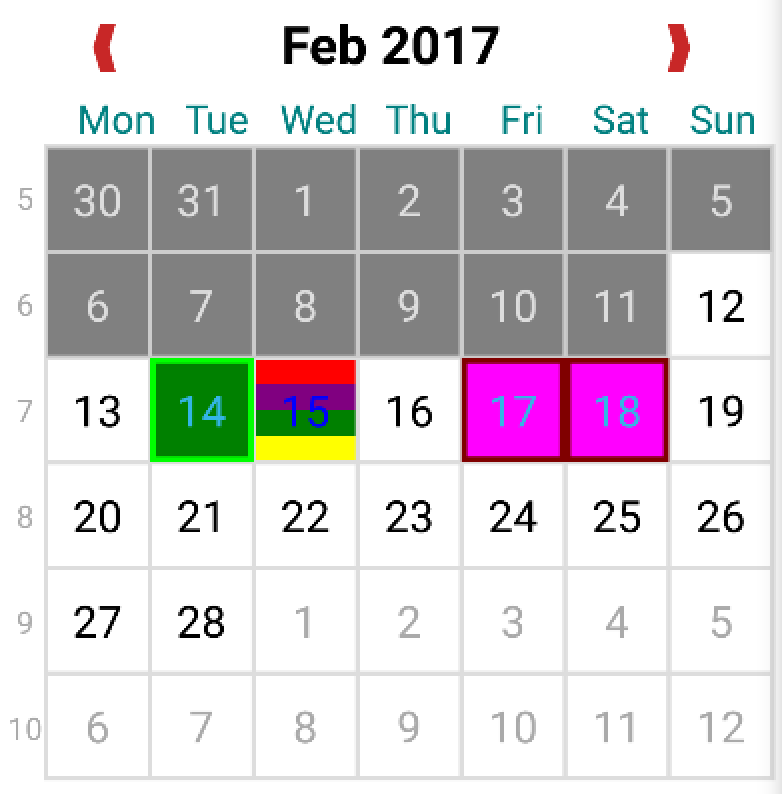
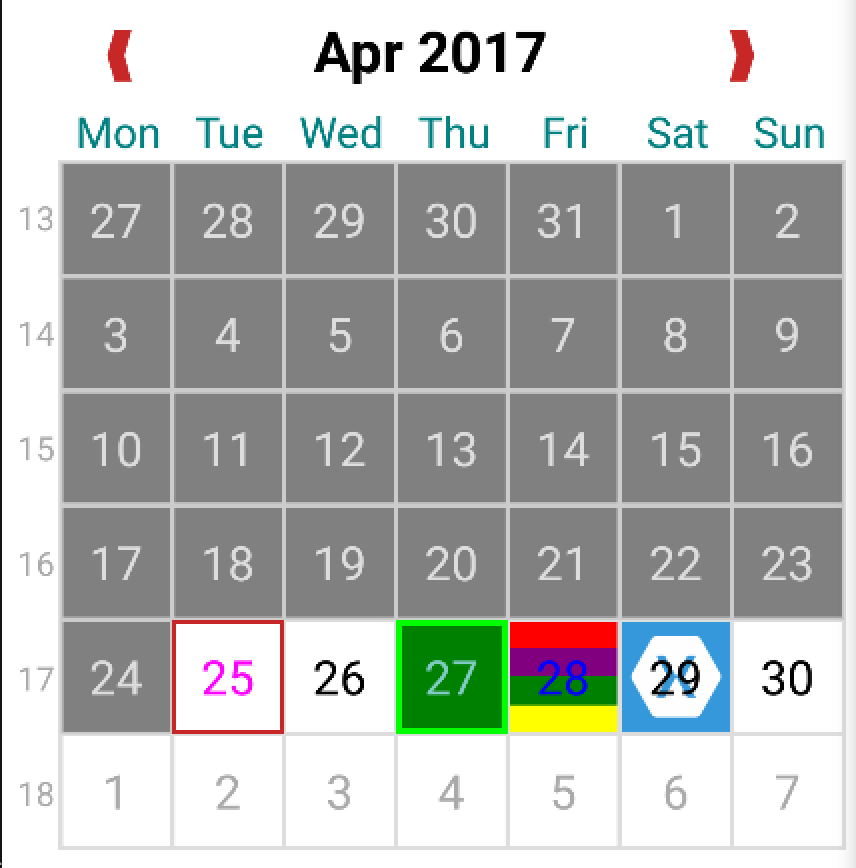
Fix Image Background for iOS Update pictures

diff --git a/XamForms.Controls.Calendar.iOS/CalendarButtonRenderer.cs b/XamForms.Controls.Calendar.iOS/CalendarButtonRenderer.cs
@@ -44,6 +44,8 @@ namespace XamForms.Controls.iOS
 		public override void Draw(CGRect rect)
 		{
 			base.Draw(rect);
+			Control.SetBackgroundImage(null, UIControlState.Normal);
+			Control.SetBackgroundImage(null, UIControlState.Disabled);
 			DrawBackgroundImage();
 			DrawBackgroundPattern();
 		}
@@ -51,8 +53,6 @@ namespace XamForms.Controls.iOS
 		protected async void DrawBackgroundImage()
 		{
 			var element = Element as CalendarButton;
-			Control.SetBackgroundImage(null, UIControlState.Normal);
-			Control.SetBackgroundImage(null, UIControlState.Disabled);
 			if (element == null || element.BackgroundImage == null) return;
 			var image = await GetImage(element.BackgroundImage);
 			Control.SetBackgroundImage(image, UIControlState.Normal);
@@ -62,8 +62,6 @@ namespace XamForms.Controls.iOS
 		protected void DrawBackgroundPattern()
 		{
 			var element = Element as CalendarButton;
-			Control.SetBackgroundImage(null, UIControlState.Normal);
-			Control.SetBackgroundImage(null, UIControlState.Disabled);
 			if (element == null || element.BackgroundPattern == null || Control.Frame.Width == 0) return;
 
 			UIImage image;

diff --git a/XamForms.Controls.Calendar/Calendar.cs b/XamForms.Controls.Calendar/Calendar.cs
@@ -554,6 +554,8 @@ namespace XamForms.Controls
 						sd = SpecialDates.FirstOrDefault(s => s.Date.Date == start.Date);
 					}
 
+                    SetButtonNormal(buttons[i]);
+
 					if ((MinDate.HasValue && start < MinDate) || (MaxDate.HasValue && start > MaxDate) || (DisableAllDates && sd == null))
 					{
 						SetButtonDisabled(buttons[i]);
@@ -565,10 +567,6 @@ namespace XamForms.Controls
 					else if (sd != null)
 					{
 						SetButtonSpecial(buttons[i], sd);
-					}
-					else
-					{
-						SetButtonNormal(buttons[i]);
 					}
 
 					start = start.AddDays(1);

diff --git a/Example/CalendarDemo/CalendarDemo/App.cs b/Example/CalendarDemo/CalendarDemo/App.cs
@@ -20,7 +20,7 @@ namespace CalendarDemo
 				MultiSelectDates = false,
 				DisableAllDates = false,
 				WeekdaysShow = true,
-				ShowNumberOfWeek = false,
+				ShowNumberOfWeek = true,
 				ShowNumOfMonths = 1,
 				EnableTitleMonthYearView = true,
 				SelectedDate = DateTime.Now,
